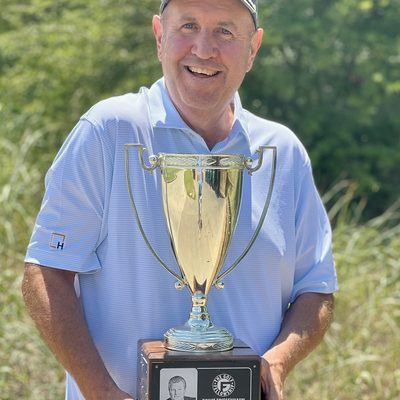
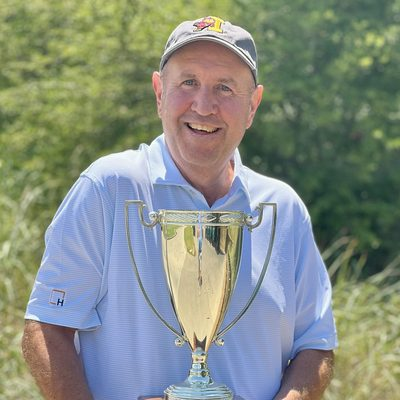
Jay Horton 2025 badge: back to the full-head crop (v2.549.1)
Kerry 10/12.

Claude-Session: https://claude.ai/code/session_01B85P24SojEAAs5wHfpNBzj

diff --git a/transaction-tracker/static/js/version.js b/transaction-tracker/static/js/version.js
@@ -1,5 +1,13 @@
-window.TGF_VERSION = "2.549.0";
+window.TGF_VERSION = "2.549.1";
 window.TGF_CHANGELOG = [
+  {
+    version: "2.549.1",
+    date: "2026-10-12",
+    title: "Jay Horton's 2025 badge: back to the full-head crop",
+    changes: [
+      "Kerry 10/12: \"Let's go with original crop for Jay Horton. I don't like cropping his head on that.\" The square badge for Jay Horton's 2025 Fellowship Cup photo is the top-anchored crop again (whole head and hat, the cup up to the base of the plaque); the full photo still opens on tap."
+    ]
+  },
   {
     version: "2.549.0",
     date: "2026-10-12",

diff --git a/transaction-tracker/docs/claude/lone-star-cup-board.md b/transaction-tracker/docs/claude/lone-star-cup-board.md
@@ -1297,3 +1297,5 @@ Small copies keep pages light: `data/champion_photos/sm/` (300x400) and `data/pl
 
 Every champion photo has three files: the full original (`data/champion_photos/<file>`, shown only in the lightbox), a small copy (`sm/`, 300x400) and a SQUARE badge crop (`sq/`, 400x400, top-anchored: head, torso, trophy) served by `/member/photo/cq/<key>.jpg` for the plaque (140px), the Past Champions strip (92px) and the Spotlight thumbnails (76px). A new photo needs its `sq` (and `sm`) copy; `test_player_photos.py` fails without them.
 
+Crop offsets (v2.549.0/.1): the `sq` badge crop is top-anchored for most photos; per-photo vertical offsets (px into the 1200x1600 original) are Gus 2026 40, Robert Players Cup 2024 100 and 2026 120, so the whole trophy shows. Jay Horton 2025 is top-anchored (offset 0, whole head, Kerry's call: "I don't like cropping his head").
+
